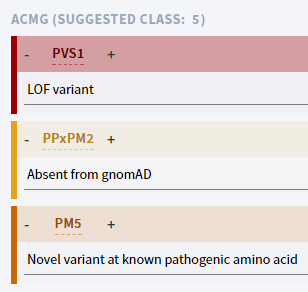
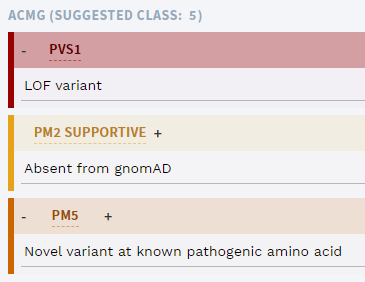
Updated docs related to LA-1300, LA-93

diff --git a/docs/manual/classification-section.md b/docs/manual/classification-section.md
@@ -59,12 +59,6 @@ REQs that have a match in the current variant are shown when you click the `SHOW
 
 ## Modifying the strength of added criteria
 
-Richards et al. (2015) and subsequent articles suggest that any ACMG criterion may be modified in strength depending on the available evidence. In *ella*, this is solved by creating new, derived criteria, which are named in the form:
-
-`[PVS/PS/PM/PP/BP/BS/BA]`x`[source]`
-
-For example, the PM2 criterion is usually regarded as "pathogenic supportive" (PP) evidence, not "pathogenic moderate" (PM). In this case, the user may modify the criterion label to PPxPM2, which should be interpreted as “PM2, supportive”.
-
 To change the strength of a particular, added criterion, click either the `+` or `-` sign, for stronger or weaker evidence, respectively:
 
 <div style="text-indent: 4%;"><img src="./img/ACMG_change_strength.png"></div>
@@ -91,7 +85,7 @@ As with suggested criteria, you are free to ignore the suggestion, and you must 
 
 If in ANALYSES mode, this moves the variant to CLASSIFIED VARIANTS in the variant side bar.
 
-The special option CLASS U should be used when you do not wish to perform any further evaluation of the variant, e.g. due to the variant being outside of usual inclusion criteria or if this is a consistent, recurring technical variant. 
+Note that suggestions are only made for CLASS 1-5, not DRUG RESPONSE or CLASS U. The special option CLASS U should be used when you do not wish to perform any further evaluation of the variant, e.g. due to the variant being outside of usual inclusion criteria or if this is a consistent, recurring technical variant. 
 
 ::: warning
 Class U is never outdated, and should be used with caution, as it will be valid for all subsequent samples!

diff --git a/docs/releasenotes/README.md b/docs/releasenotes/README.md
@@ -4,6 +4,7 @@ sidebar: auto
 
 # Release notes
 
+- [1.5](#_1-5)
 - [1.4.1](#_1-4-1)
 - [1.4](#_1-4)
 - [1.3.1](#_1-3-1)
@@ -12,6 +13,11 @@ sidebar: auto
 - [1.1.2](#_1-1-2)
 - [1.1.1](#_1-1-1)
 - [1.1](#_1-1)
+
+## 1.5
+
+### Additions and fixes
+- Changed naming of ACMG criteria with modified strength to ClinGen's recommendations (e.g. PM1_Strong instead of PSxPM1). 
 
 
 ## 1.4.1
